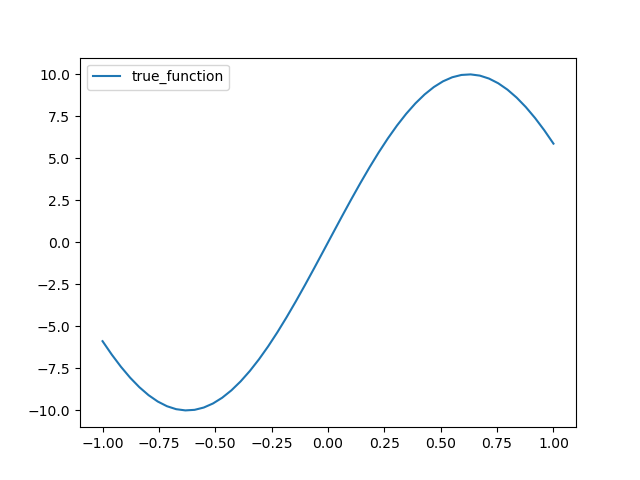
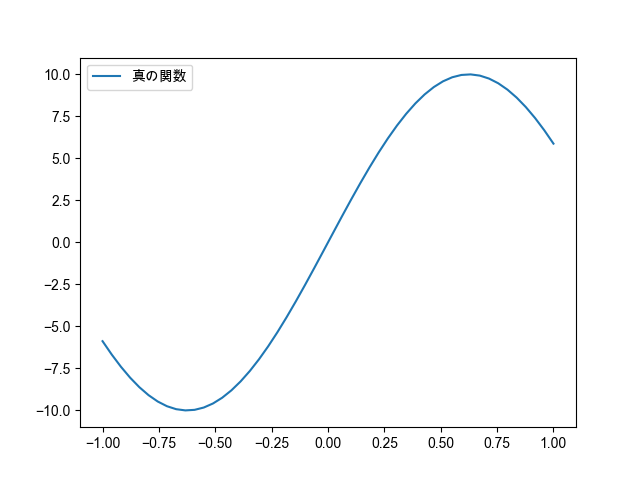
ex1.1

diff --git a/exercise/ex1.1/dataset1.py b/exercise/ex1.1/dataset1.py
@@ -1,6 +1,11 @@
 import unittest
 import numpy as np
+import matplotlib
 import matplotlib.pyplot as plt
+import matplotlib.font_manager as font_manager
+font_path = '/Library/Fonts/Arial Unicode.ttf'
+font_prop = font_manager.FontProperties(fname = font_path)
+matplotlib.rcParams['font.family'] = font_prop.get_name()
 
 def true_function(x):
     x = np.array(x)
@@ -16,7 +21,7 @@ class TestTrueFunction(unittest.TestCase):
 x = np.linspace(-1, 1)
 y = true_function(x)
 
-plt.plot(x, y, label="true_function")
+plt.plot(x, y, label="真の関数")
 plt.legend()
 plt.savefig("ex1.1.png")
 plt.close()
